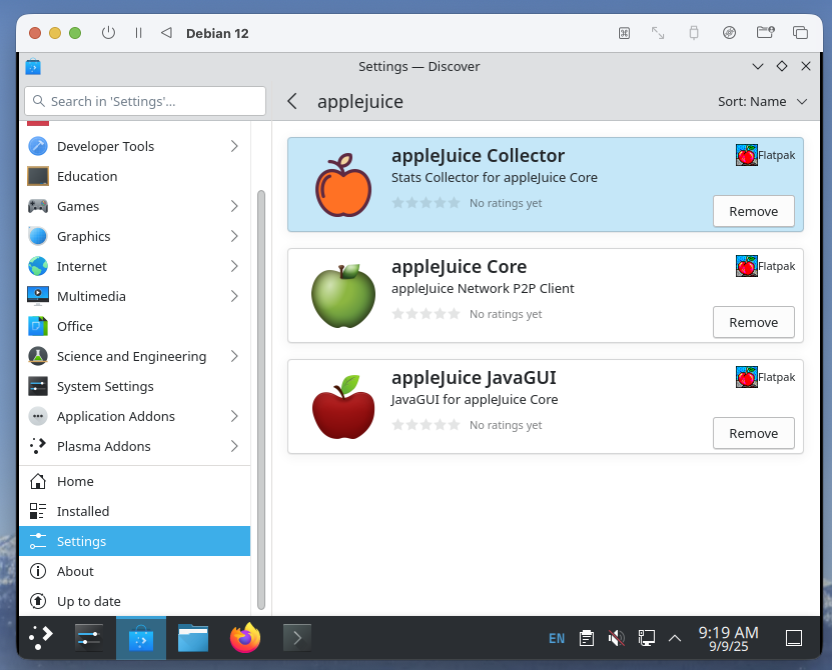
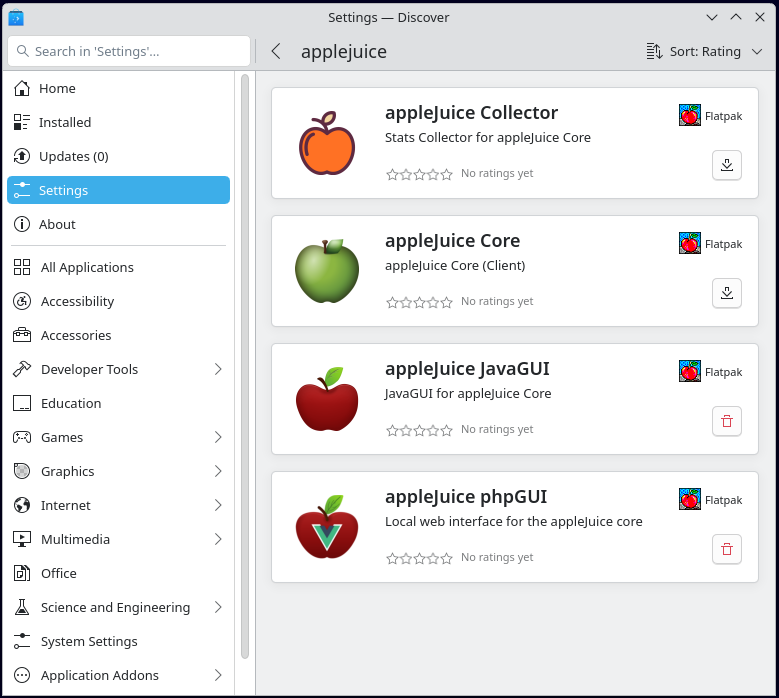
linux: phpGUI als Liste ergänzen, neuer Flatpak-Screenshot, alt fix

diff --git a/docs/downloads/applejuice-linux.html b/docs/downloads/applejuice-linux.html
@@ -9,29 +9,26 @@ menubar: downloads_menu
 <h1 class="title">{{ page.title }}</h1>
 <p class="subtitle is-6">{{ page.subtitle }}</p>
 
-<div class="columns is-vcentered aj-badges">
-    <div class="control">
-        <img alt="GitHub latest Core release" src="https://img.shields.io/github/v/release/{{ site.github_username }}/core?label=core&style={{ site.shields_style }}">
-    </div>
-
-    <div class="control">
-        <img alt="GitHub latest JavaGUI release" src="https://img.shields.io/github/v/release/{{ site.github_username }}/gui-java?label=GUI&style={{ site.shields_style }}">
-    </div>
-
-    <div class="control">
-        <img alt="GitHub latest Collector release" src="https://img.shields.io/github/v/release/{{ site.github_username }}/core-information-collector?label=Collector&style={{ site.shields_style }}">
-    </div>
-</div>
-
 <div class="content is-medium">
     <div class="columns">
         <div class="column">
             <p>
-                <a href="/downloads/applejuice-core">Core</a>,
-                <a href="/downloads/applejuice-java-gui">JavaGUI</a>
-                und der <a href="/downloads/applejuice-collector">Collector</a>
-                als Flatpak.
+                Diese Komponenten gibt es als <strong>Flatpak</strong>:
             </p>
+
+            <dl class="inline-flex">
+                <dt><img alt="" src="https://img.shields.io/github/v/release/{{ site.github_username }}/core?label=%20"></dt>
+                <dd><a href="/downloads/applejuice-core/">Core</a></dd>
+
+                <dt><img alt="" src="https://img.shields.io/github/v/release/{{ site.github_username }}/gui-java?label=%20"></dt>
+                <dd><a href="/downloads/applejuice-java-gui/">JavaGUI</a></dd>
+
+                <dt><img alt="" src="https://img.shields.io/github/v/tag/{{ site.github_username }}/phpgui?label=%20"></dt>
+                <dd><a href="/downloads/applejuice-php-gui/">phpGUI</a></dd>
+
+                <dt><img alt="" src="https://img.shields.io/github/v/release/{{ site.github_username }}/core-information-collector?label=%20"></dt>
+                <dd><a href="/downloads/applejuice-collector/">Collector</a></dd>
+            </dl>
 
             <p>
                 Falls noch nicht geschehen, muss einmalig <a href="https://flatpak.org/setup/" target="_blank">Flatpak</a> installiert werden.
@@ -47,7 +44,7 @@ menubar: downloads_menu
 
             <figure class="image box">
                 <a href="#" class="modal-button" data-target="modal-applejuice-flatpak">
-                    <img src="/assets/screenshots/applejuice_flatpak.png" alt="appleJuice Core macOS">
+                    <img src="/assets/screenshots/applejuice_flatpak.png" alt="appleJuice Flatpak">
                 </a>
             </figure>
 
